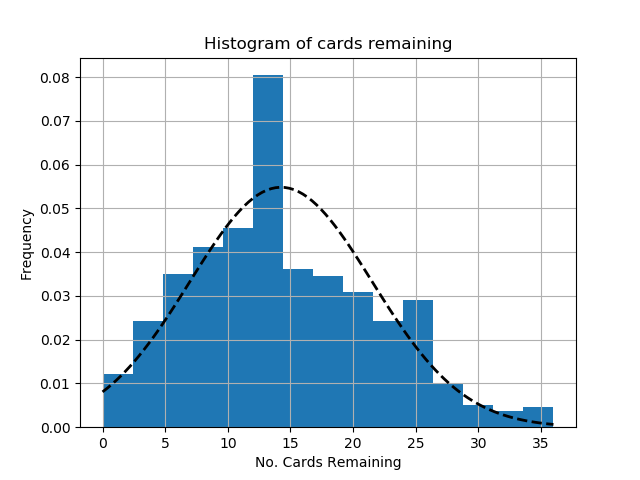
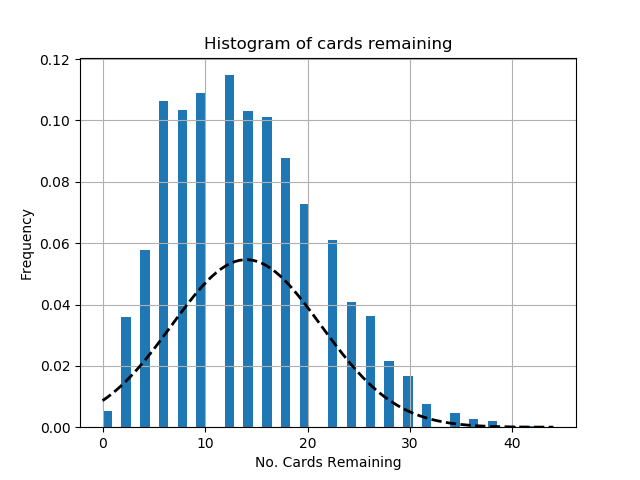
best fit

diff --git a/p5.py b/p5.py
@@ -12,7 +12,7 @@ from scipy.stats import norm
 import matplotlib.mlab as mlab
 
 
-N = 1000 #number of simulations
+N = 10000 #number of simulations
 
 cards_rem = []
 n = 0
@@ -63,7 +63,7 @@ rem = []
 while n < N:
     x = sim()
     rem.append(x)
-    print(x)
+    #print(x)
     n += 1
 
 rem.sort()
